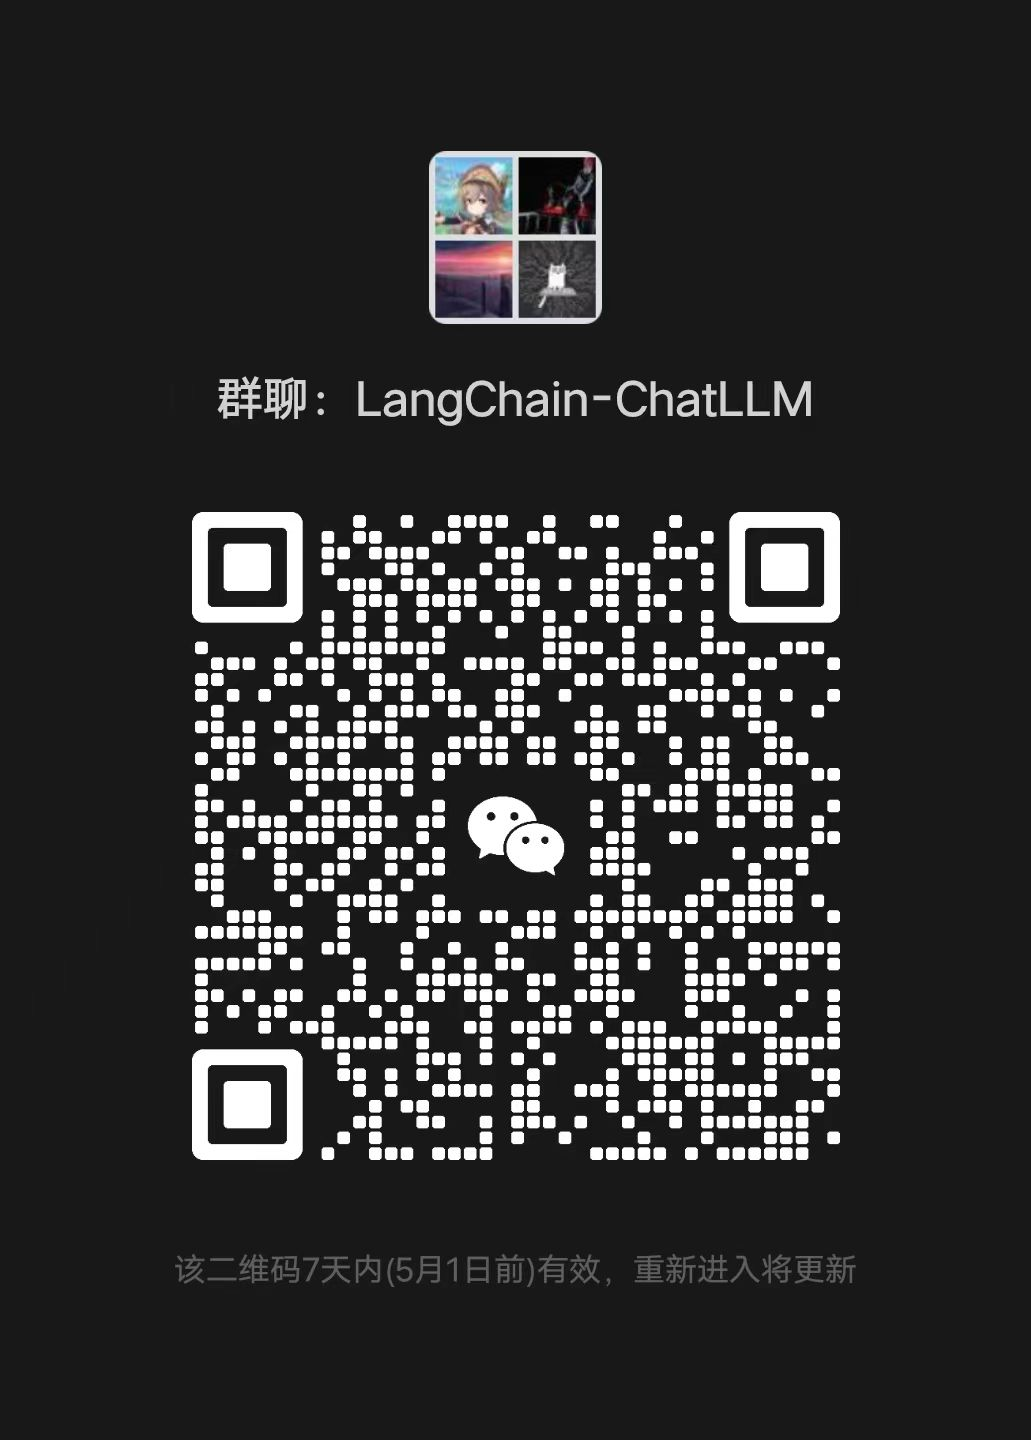
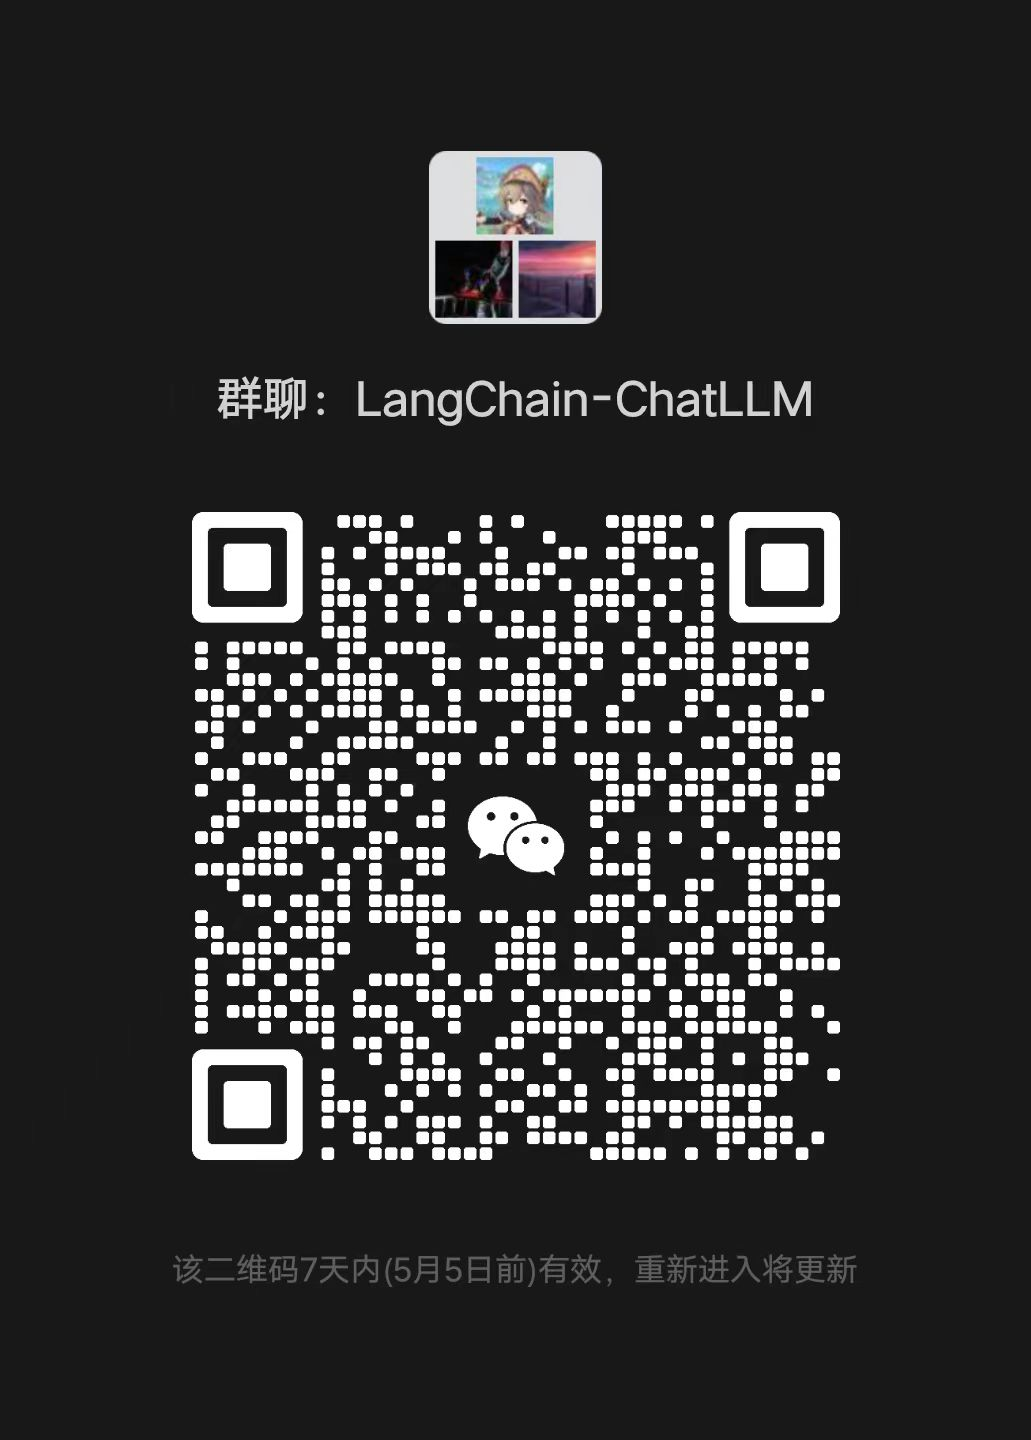
完善系列问题

diff --git a/chatllm.py b/chatllm.py
@@ -28,19 +28,9 @@ def torch_gc():
 
 
 def auto_configure_device_map(num_gpus: int) -> Dict[str, int]:
-    # transformer.word_embeddings 占用1层
-    # transformer.final_layernorm 和 lm_head 占用1层
-    # transformer.layers 占用 28 层
-    # 总共30层分配到num_gpus张卡上
     num_trans_layers = 28
     per_gpu_layers = 30 / num_gpus
 
-    # bugfix: 在linux中调用torch.embedding传入的weight,input不在同一device上,导致RuntimeError
-    # windows下 model.device 会被设置成 transformer.word_embeddings.device
-    # linux下 model.device 会被设置成 lm_head.device
-    # 在调用chat或者stream_chat时,input_ids会被放到model.device上
-    # 如果transformer.word_embeddings.device和model.device不同,则会导致RuntimeError
-    # 因此这里将transformer.word_embeddings,transformer.final_layernorm,lm_head都放到第一张卡上
     device_map = {
         'transformer.word_embeddings': 0,
         'transformer.final_layernorm': 0,
@@ -135,7 +125,7 @@ class ChatLLM(LLM):
             self.tokenizer = AutoTokenizer.from_pretrained(self.model_name_or_path,
                                                        trust_remote_code=True, cache_dir=os.path.join(MODEL_CACHE_PATH, self.model_name_or_path))                            
             if torch.cuda.is_available() and llm_device.lower().startswith("cuda"):
-                # 根据当前设备GPU数量决定是否进行多卡部署
+
                 num_gpus = torch.cuda.device_count()
                 if num_gpus < 2 and device_map is None:
                     self.model = (AutoModel.from_pretrained(
@@ -147,7 +137,7 @@ class ChatLLM(LLM):
                     model = AutoModel.from_pretrained(self.model_name_or_path,
                                                     trust_remote_code=True, cache_dir=os.path.join(MODEL_CACHE_PATH, self.model_name_or_path),
                                                     **kwargs).half()
-                    # 可传入device_map自定义每张卡的部署情况
+
                     if device_map is None:
                         device_map = auto_configure_device_map(num_gpus)
 

diff --git a/config.py b/config.py
@@ -3,15 +3,17 @@ import os
 import torch
 
 # device config
+
 EMBEDDING_DEVICE = "cuda" if torch.cuda.is_available(
 ) else "mps" if torch.backends.mps.is_available() else "cpu"
-
 LLM_DEVICE = "cuda" if torch.cuda.is_available(
 ) else "mps" if torch.backends.mps.is_available() else "cpu"
 
 MODEL_CACHE_PATH = os.path.join(os.path.dirname(__file__), 'model_cache')
 
+# vector storage config
 VS_ROOT_PATH = './'
+
 num_gpus = torch.cuda.device_count()
 
 # init model config
@@ -25,7 +27,8 @@ embedding_model_dict = {
     "ernie-medium": "nghuyong/ernie-3.0-medium-zh",
     "ernie-xbase": "nghuyong/ernie-3.0-xbase-zh",
     "text2vec-base": "GanymedeNil/text2vec-base-chinese",
-    'simbert-base-chinese': 'WangZeJun/simbert-base-chinese'
+    'simbert-base-chinese': 'WangZeJun/simbert-base-chinese',
+    'paraphrase-multilingual-MiniLM-L12-v2': "sentence-transformers/paraphrase-multilingual-MiniLM-L12-v2"
 }
 
 

diff --git a/modelscope/app.py b/modelscope/app.py
@@ -4,6 +4,7 @@ import gradio as gr
 import nltk
 import sentence_transformers
 import torch
+from chatglm_llm import ChatGLM
 from duckduckgo_search import ddg
 from duckduckgo_search.utils import SESSION
 from langchain.chains import RetrievalQA
@@ -11,8 +12,6 @@ from langchain.document_loaders import UnstructuredFileLoader
 from langchain.embeddings.huggingface import HuggingFaceEmbeddings
 from langchain.prompts import PromptTemplate
 from langchain.vectorstores import FAISS
-
-from chatllm import ChatGLM
 
 nltk.data.path.append('../nltk_data')
 

diff --git a/chinese_text_splitter.py b/chinese_text_splitter.py
@@ -15,7 +15,7 @@ class ChineseTextSplitter(CharacterTextSplitter):
             text = re.sub('\s', ' ', text)
             text = text.replace("\n\n", "")
         sent_sep_pattern = re.compile(
-            '([﹒﹔﹖﹗．。！？]["’”」』]{0,2}|(?=["‘“「『]{1,2}|$))')  # del ：；
+            '([﹒﹔﹖﹗．。！？]["’”」』]{0,2}|(?=["‘“「『]{1,2}|$))') 
         sent_list = []
         for ele in sent_sep_pattern.split(text):
             if sent_sep_pattern.match(ele) and sent_list:

diff --git a/app.py b/app.py
@@ -16,7 +16,7 @@ from chatllm import ChatLLM
 from chinese_text_splitter import ChineseTextSplitter
 from config import *
 
-nltk.data.path.append('./nltk_data')
+nltk.data.path = [os.path.join(os.path.dirname(__file__), "nltk_data")] + nltk.data.path
 
 embedding_model_dict = embedding_model_dict
 llm_model_dict = llm_model_dict

diff --git a/jina_serving.py b/jina_serving.py
@@ -20,7 +20,7 @@ from chatllm import ChatLLM
 from chinese_text_splitter import ChineseTextSplitter
 from config import *
 
-nltk.data.path.append('./nltk_data')
+nltk.data.path = [os.path.join(os.path.dirname(__file__), "nltk_data")] + nltk.data.path
 
 embedding_model_dict = embedding_model_dict
 llm_model_dict = llm_model_dict

diff --git a/README.md b/README.md
@@ -15,7 +15,7 @@
 <a href="https://github.com/thomas-yanxin/LangChain-ChatGLM-Webui/pulls"><img alt="GitHub pull requests" src="https://img.shields.io/github/issues-pr/thomas-yanxin/LangChain-ChatGLM-Webui?color=orange" /></a>
 </p>
 <p align="center">  
-   <a href="https://www.bilibili.com/video/BV1So4y1L7Hb/?share_source=copy_web&vd_source=8162f92b2a1a94035ca9e4e0f6e1860a"><strong>视频链接</strong></a> | <a href="https://huggingface.co/spaces/thomas-yanxin/LangChain-ChatLLM"><strong>在线体验</strong></a> | <a href="https://github.com/thomas-yanxin/LangChain-ChatGLM-Webui/blob/master/docs/deploy.md"><strong>部署文档</strong></a>| <a href="https://github.com/thomas-yanxin/LangChain-ChatGLM-Webui/blob/master/docs/update_history.md"><strong>更新日志</strong></a> | <a href="https://github.com/thomas-yanxin/LangChain-ChatGLM-Webui/blob/master/docs/qa.md"><strong>常见问题</strong></a> 
+   <a href="https://www.bilibili.com/video/BV1So4y1L7Hb/?share_source=copy_web&vd_source=8162f92b2a1a94035ca9e4e0f6e1860a"><strong>视频链接</strong></a> | <a href="https://huggingface.co/spaces/thomas-yanxin/LangChain-ChatLLM"><strong>在线体验</strong></a> | <a href="https://github.com/thomas-yanxin/LangChain-ChatGLM-Webui/blob/master/docs/deploy.md"><strong>部署文档</strong></a>| <a href="https://github.com/thomas-yanxin/LangChain-ChatGLM-Webui/blob/master/docs/update_history.md"><strong>更新日志</strong></a> | <a href="https://github.com/thomas-yanxin/LangChain-ChatGLM-Webui/blob/master/docs/faq.md"><strong>常见问题</strong></a> 
 
 </p>
 
@@ -57,7 +57,7 @@
 | [ChatGLM-6B-int4](https://s3.openi.org.cn/opendata/attachment/b/2/b2c7f23f-6864-40da-9c81-2c0607cb1d02?X-Amz-Algorithm=AWS4-HMAC-SHA256&X-Amz-Credential=1fa9e58b6899afd26dd3%2F20230424%2Fus-east-1%2Fs3%2Faws4_request&X-Amz-Date=20230424T050113Z&X-Amz-Expires=604800&X-Amz-SignedHeaders=host&response-content-disposition=attachment%3B%20filename%3D%22chatglm-6b-int4.zip%22&X-Amz-Signature=e8204284dcb2138e6fdce87d1b704a39f0dbe362512c28cef5a51cdea78a2858) | [ernie-3.0-nano-zh](https://s3.openi.org.cn/opendata/attachment/2/2/22833889-1683-422e-a44c-929bc379904c?X-Amz-Algorithm=AWS4-HMAC-SHA256&X-Amz-Credential=1fa9e58b6899afd26dd3%2F20230422%2Fus-east-1%2Fs3%2Faws4_request&X-Amz-Date=20230422T152948Z&X-Amz-Expires=604800&X-Amz-SignedHeaders=host&response-content-disposition=attachment%3B%20filename%3D%22ernie-3.0-nano-zh.zip%22&X-Amz-Signature=c8b213d627efb8518c8e54a857c7c323e5e0451a08a3a473d37e2372aabd182f) |
 | [ChatGLM-6B-int4-qe](https://s3.openi.org.cn/opendata/attachment/b/f/bf5131da-62e0-4b57-b52a-4135c273b4fc?X-Amz-Algorithm=AWS4-HMAC-SHA256&X-Amz-Credential=1fa9e58b6899afd26dd3%2F20230424%2Fus-east-1%2Fs3%2Faws4_request&X-Amz-Date=20230424T050105Z&X-Amz-Expires=604800&X-Amz-SignedHeaders=host&response-content-disposition=attachment%3B%20filename%3D%22chatglm-6b-int4-qe.zip%22&X-Amz-Signature=3205ca3c5690a086eef95bd032a7314b258a7550ad88bb36c4b738cc5059fbee) | [ernie-3.0-xbase-zh](https://s3.openi.org.cn/opendata/attachment/c/5/c5f746c3-4c60-4fb7-8424-8f7e40f3cce8?X-Amz-Algorithm=AWS4-HMAC-SHA256&X-Amz-Credential=1fa9e58b6899afd26dd3%2F20230424%2Fus-east-1%2Fs3%2Faws4_request&X-Amz-Date=20230424T050103Z&X-Amz-Expires=604800&X-Amz-SignedHeaders=host&response-content-disposition=attachment%3B%20filename%3D%22ernie-3.0-xbase-zh.zip%22&X-Amz-Signature=edffb1ee1e7729fc45305750e1faaff54546683e1e1a983fce4cbff16d28e219) | 
 | [Vicuna-7b-1.1](https://s3.openi.org.cn/opendata/attachment/2/5/25854cfb-3d57-44ff-a842-2a98e1a2dafe?X-Amz-Algorithm=AWS4-HMAC-SHA256&X-Amz-Credential=1fa9e58b6899afd26dd3%2F20230423%2Fus-east-1%2Fs3%2Faws4_request&X-Amz-Date=20230423T014232Z&X-Amz-Expires=604800&X-Amz-SignedHeaders=host&response-content-disposition=attachment%3B%20filename%3D%22vicuna-7b-1.1.zip%22&X-Amz-Signature=353d6295d5260d5c53ee512680b211b67fe91fab8376aaef4c17e477f09a666a) | [simbert-base-chinese](https://s3.openi.org.cn/opendata/attachment/1/9/19a54b2f-e527-47e1-aa16-62887498b7f7?X-Amz-Algorithm=AWS4-HMAC-SHA256&X-Amz-Credential=1fa9e58b6899afd26dd3%2F20230423%2Fus-east-1%2Fs3%2Faws4_request&X-Amz-Date=20230423T033222Z&X-Amz-Expires=604800&X-Amz-SignedHeaders=host&response-content-disposition=attachment%3B%20filename%3D%22simbert-base-chinese.zip%22&X-Amz-Signature=6ba81f63582fcb5a45fdc33415aabd40cd8ce0e803d79388390006f5feec5def) | 
-| [BELLE-LLaMA-7B-2M](https://s3.openi.org.cn/opendata/attachment/2/6/26f570ea-03c8-4e48-8058-e90b4854edfb?X-Amz-Algorithm=AWS4-HMAC-SHA256&X-Amz-Credential=1fa9e58b6899afd26dd3%2F20230424%2Fus-east-1%2Fs3%2Faws4_request&X-Amz-Date=20230424T045945Z&X-Amz-Expires=604800&X-Amz-SignedHeaders=host&response-content-disposition=attachment%3B%20filename%3D%22BELLE-LLaMA-7B-2M.zip%22&X-Amz-Signature=a3a06bbce4389e21e384d5831f3a484bfae29a4af5a71fb043c26e6282ac00ee) | | 
+| [BELLE-LLaMA-7B-2M](https://s3.openi.org.cn/opendata/attachment/2/6/26f570ea-03c8-4e48-8058-e90b4854edfb?X-Amz-Algorithm=AWS4-HMAC-SHA256&X-Amz-Credential=1fa9e58b6899afd26dd3%2F20230424%2Fus-east-1%2Fs3%2Faws4_request&X-Amz-Date=20230424T045945Z&X-Amz-Expires=604800&X-Amz-SignedHeaders=host&response-content-disposition=attachment%3B%20filename%3D%22BELLE-LLaMA-7B-2M.zip%22&X-Amz-Signature=a3a06bbce4389e21e384d5831f3a484bfae29a4af5a71fb043c26e6282ac00ee) | paraphrase-multilingual-MiniLM-L12-v2 | 
 | [BELLE-LLaMA-13B-2M](https://s3.openi.org.cn/opendata/attachment/a/c/acb0655f-4d3c-49c4-8320-f4b8584cf5bb?X-Amz-Algorithm=AWS4-HMAC-SHA256&X-Amz-Credential=1fa9e58b6899afd26dd3%2F20230424%2Fus-east-1%2Fs3%2Faws4_request&X-Amz-Date=20230424T014910Z&X-Amz-Expires=604800&X-Amz-SignedHeaders=host&response-content-disposition=attachment%3B%20filename%3D%22BELLE-LLaMA-13B-2M.zip%22&X-Amz-Signature=7409fd2eba9768e720380759601cd462deabb3ebb24f493b21e1762b5f3410da) | | 
 | Minimax | |
 

diff --git a/docs/faq.md b/docs/faq.md
@@ -12,29 +12,24 @@
 | [Vicuna-7b-1.1](https://s3.openi.org.cn/opendata/attachment/2/5/25854cfb-3d57-44ff-a842-2a98e1a2dafe?X-Amz-Algorithm=AWS4-HMAC-SHA256&X-Amz-Credential=1fa9e58b6899afd26dd3%2F20230423%2Fus-east-1%2Fs3%2Faws4_request&X-Amz-Date=20230423T014232Z&X-Amz-Expires=604800&X-Amz-SignedHeaders=host&response-content-disposition=attachment%3B%20filename%3D%22vicuna-7b-1.1.zip%22&X-Amz-Signature=353d6295d5260d5c53ee512680b211b67fe91fab8376aaef4c17e477f09a666a) | [simbert-base-chinese](https://s3.openi.org.cn/opendata/attachment/1/9/19a54b2f-e527-47e1-aa16-62887498b7f7?X-Amz-Algorithm=AWS4-HMAC-SHA256&X-Amz-Credential=1fa9e58b6899afd26dd3%2F20230423%2Fus-east-1%2Fs3%2Faws4_request&X-Amz-Date=20230423T033222Z&X-Amz-Expires=604800&X-Amz-SignedHeaders=host&response-content-disposition=attachment%3B%20filename%3D%22simbert-base-chinese.zip%22&X-Amz-Signature=6ba81f63582fcb5a45fdc33415aabd40cd8ce0e803d79388390006f5feec5def) | 
 | [BELLE-LLaMA-7B-2M](https://s3.openi.org.cn/opendata/attachment/2/6/26f570ea-03c8-4e48-8058-e90b4854edfb?X-Amz-Algorithm=AWS4-HMAC-SHA256&X-Amz-Credential=1fa9e58b6899afd26dd3%2F20230424%2Fus-east-1%2Fs3%2Faws4_request&X-Amz-Date=20230424T045945Z&X-Amz-Expires=604800&X-Amz-SignedHeaders=host&response-content-disposition=attachment%3B%20filename%3D%22BELLE-LLaMA-7B-2M.zip%22&X-Amz-Signature=a3a06bbce4389e21e384d5831f3a484bfae29a4af5a71fb043c26e6282ac00ee) | | 
 | [BELLE-LLaMA-13B-2M](https://s3.openi.org.cn/opendata/attachment/a/c/acb0655f-4d3c-49c4-8320-f4b8584cf5bb?X-Amz-Algorithm=AWS4-HMAC-SHA256&X-Amz-Credential=1fa9e58b6899afd26dd3%2F20230424%2Fus-east-1%2Fs3%2Faws4_request&X-Amz-Date=20230424T014910Z&X-Amz-Expires=604800&X-Amz-SignedHeaders=host&response-content-disposition=attachment%3B%20filename%3D%22BELLE-LLaMA-13B-2M.zip%22&X-Amz-Signature=7409fd2eba9768e720380759601cd462deabb3ebb24f493b21e1762b5f3410da) | | 
-| Minimax | |
 
-然后在 `app.py` 文件中对以下字段进行修改:  
+然后在 `config.py` 文件中对以下字段进行修改:  
 
 ```python
 
 embedding_model_dict = {
-
-    "ernie-tiny": "your_model_path",
+    "ernie-tiny": "nghuyong/ernie-3.0-nano-zh",
     "ernie-base": "your_model_path",
     "ernie-medium": "your_model_path",
     "ernie-xbase": "your_model_path",
-    "text2vec": "your_model_path"
+    "text2vec-base": "your_model_path",
+    'simbert-base-chinese': 'your_model_path',
+    'paraphrase-multilingual-MiniLM-L12-v2': "your_model_path"
 }
 
-llm_model_dict = {
-
-    "ChatGLM-6B": "your_model_path",
-    "ChatGLM-6B-int4": "your_model_path",
-    "ChatGLM-6B-int8": "your_model_path",
-    "ChatGLM-6b-int4-qe": "your_model_path"
-}
 ```
+
+具体路径仿见[issue 36](https://github.com/thomas-yanxin/LangChain-ChatGLM-Webui/issues/36)、[issue 37](https://github.com/thomas-yanxin/LangChain-ChatGLM-Webui/issues/37)
 
 ### 爆显存问题
 
@@ -54,3 +49,4 @@ llm_model_dict = {
 
 1. 需要等文件完全上传之后再进行对话 
 2. 若detectron2安装有问题, 可以执行:`pip install 'git+https://openi.pcl.ac.cn/Learning-Develop-Union/detectron2.git'`
+3. 目前项目仅在linux环境下进行测试，win/mac下或许存在一些未知问题

diff --git a/docs/deploy.md b/docs/deploy.md
@@ -4,7 +4,7 @@
 
 ### 环境准备
 
-项目需要Python>=3.8.1
+**项目需要Python>=3.8.1, 默认已安装torch**
 
 1. git clone本项目, 您可以在自己的terminal中执行: `git clone https://github.com/thomas-yanxin/LangChain-ChatGLM-Webui.git`. 若国内用户访问Github存在网络问题, 也可以执行: `https://openi.pcl.ac.cn/Learning-Develop-Union/LangChain-ChatGLM-Webui.git`
 2. 进入本项目目录：`cd LangChain-ChatGLM-Webui`
@@ -40,11 +40,9 @@
 3. 运行环境，镜像大小约14G。
 4. nvidia-runtime 请参考: [container-toolkit](https://docs.nvidia.com/datacenter/cloud-native/container-toolkit/install-guide.html)
 5. 本地模型放置目录：  
- `BELLE-LLaMA-Local:/pretrainmodel/belle`
-
- `Vicuna-Local:/pretrainmodel/vicuna`
-
- `ChatGLM-Local:/pretrainmodel/chatglm`
+ BELLE-LLaMA-Local:/pretrainmodel/belle  
+ Vicuna-Local:/pretrainmodel/vicuna  
+ ChatGLM-Local:/pretrainmodel/chatglm
 
 6. 挂载cache目录，容器重启或更新无需重新下载相关模型。  
  `-v langchain-ChatGLM-webui-cache:/root/.cache/`

diff --git a/docs/update_history.md b/docs/update_history.md
@@ -1,5 +1,13 @@
 # 更新日志
 
+## Apr 28 2023
+
+1. 增加推荐Embedding Model
+2. 修复modelscope引用chatglm_llm错误问题
+3. 修复相关注释问题
+4. 更新微信群二维码
+5. 完善FAQ和部署文档
+
 ## Apr 27 2023
 
 1. 优化Jina Serving API，支持批量文件
